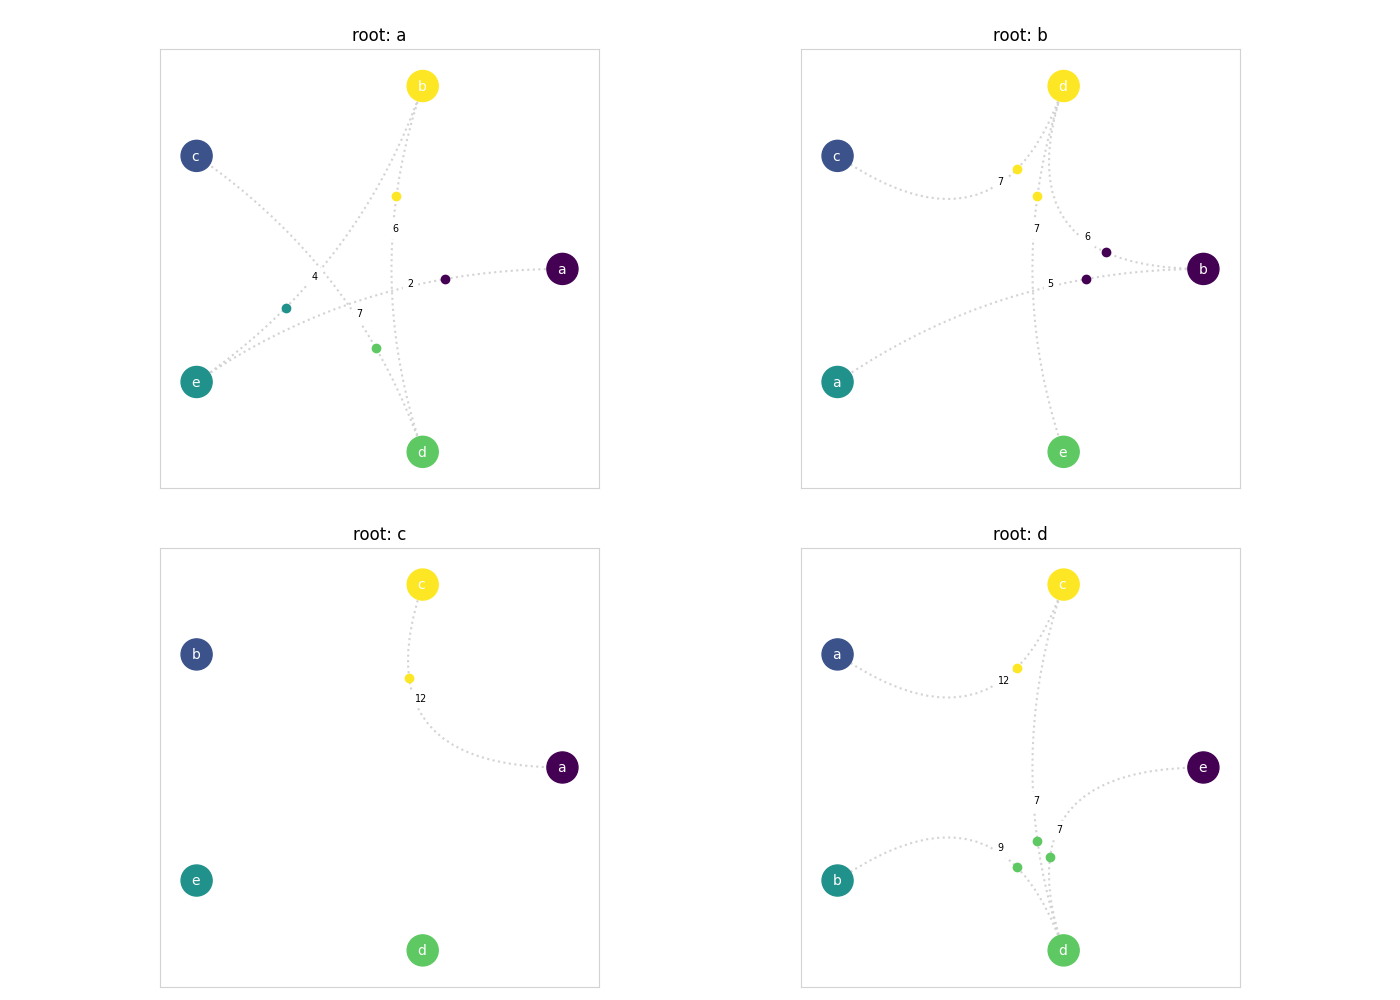
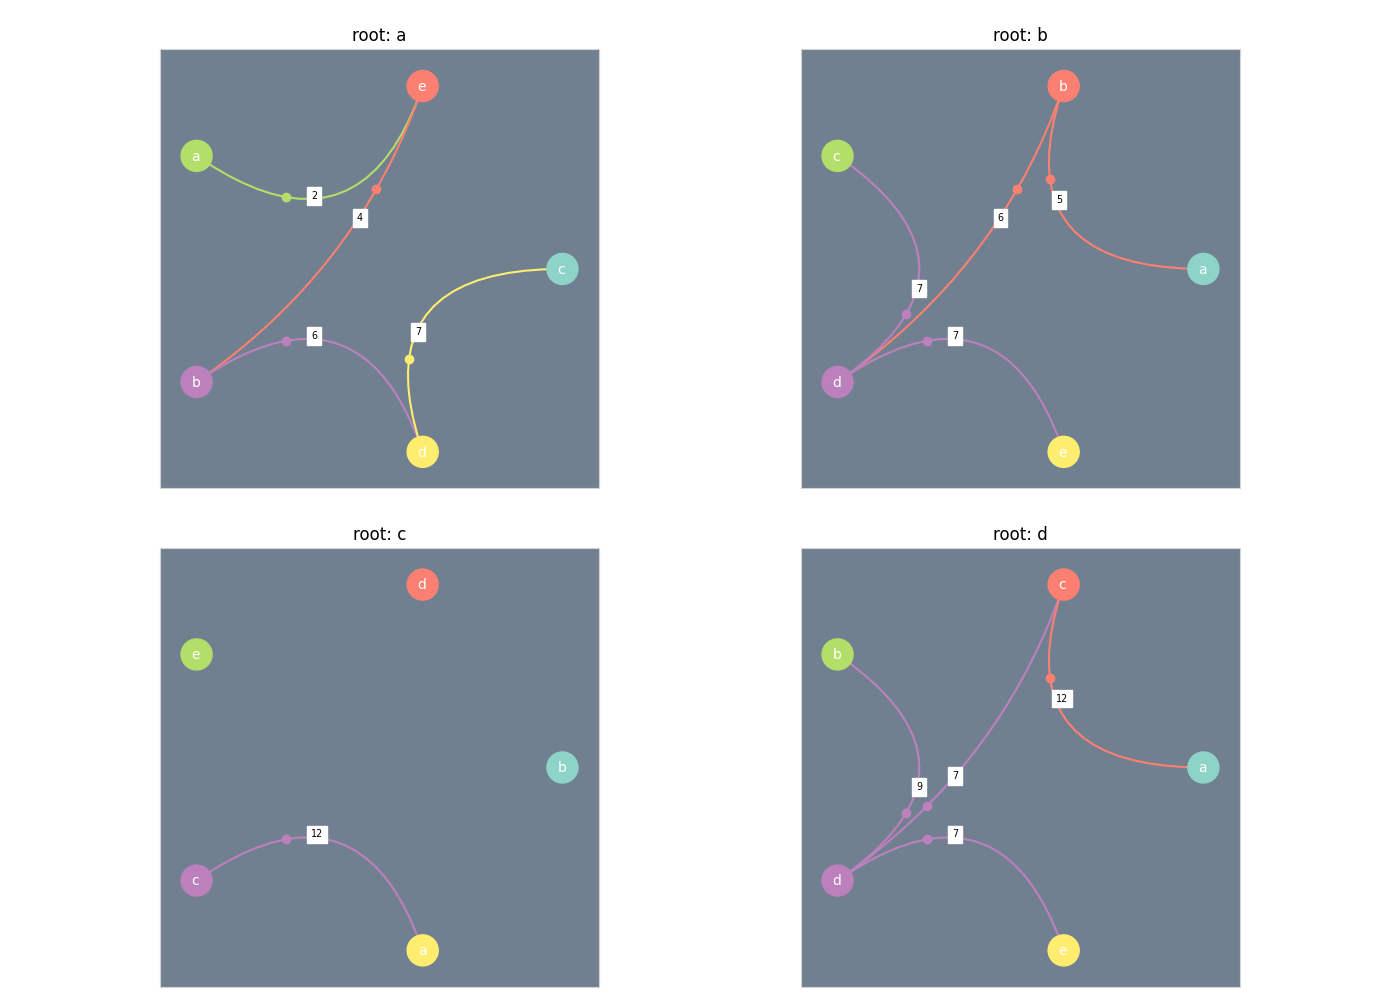
updated plots

diff --git a/OVERTIME/plots/circle.py b/OVERTIME/plots/circle.py
@@ -1,10 +1,11 @@
 
 import math
+from random import shuffle
 import numpy as np
 import matplotlib.pyplot as plt
 import matplotlib.lines as lines
 from plots.plot import Plot
-from plots.utils import vector_angle
+from plots.utils import vector_angle, bezier
 
 
 
@@ -20,7 +21,7 @@ class CircleNode():
         self.x = x
         self.y = y
         self.avg = 0
-        self.color = None
+        self.color = index
 
 
 
@@ -41,6 +42,7 @@ class Circle(Plot):
     """
         A class which represents a circle plot of a graph.
     """
+    name = 'circle'
 
     def __init__(self, graph, axes, title=None, time=None):
         super().__init__(graph, axes, title, time)
@@ -92,10 +94,10 @@ class Circle(Plot):
         pos = {}
         pos['x'] = [node.x for node in self.nodes]
         pos['y'] = [node.y for node in self.nodes]
-
-        colors = self.colors(n)
+        colors = [x for x in range(0, n)]
+        cmap = self.colormap('Set3', 1)
         ax_node = self.axes.scatter(
-            pos['x'], pos['y'], s=500, c=colors, cmap='Set2', zorder=1
+            pos['x'], pos['y'], s=500, c=colors, cmap=cmap, zorder=1
         )
         plt.draw()
 
@@ -114,46 +116,31 @@ class Circle(Plot):
             if edge.edge.directed:
                 color=self.get_node(edge.edge.node1.label).color
             else:
-                color='black'
-            bezier = self.bezier(edge.p1, edge.p2)
+                color='lightgrey'
+            bezier_edge = bezier(edge.p1, edge.p2)
             self.axes.plot(
-                bezier['x'],
-                bezier['y'],
+                bezier_edge['x'],
+                bezier_edge['y'],
                 linestyle='-',
                 color=color,
                 zorder=0
             )
             if edge.edge.directed:
                 self.axes.plot(
-                    bezier['x'][6],
-                    bezier['y'][6],
+                    bezier_edge['x'][6],
+                    bezier_edge['y'][6],
                     'o',
                     color=self.get_node(edge.edge.node1.label).color,
                     zorder=1
                 )
             if self.time is None and not self.graph.static:
                 self.axes.text(
-                    bezier['x'][8], bezier['y'][8],
+                    bezier_edge['x'][8], bezier_edge['y'][8],
                     edge.edge.start, 
                     color='black', backgroundcolor='white',
                     fontsize='x-small',
                     zorder=1
                 )
-
-
-    def bezier(self, p1, p2, p0=(0,0), nt=20):
-        bezier = {}
-        bezier['x'] = []
-        bezier['y'] = []
-        for i in range(0, nt+1):
-            t = (1/nt) * i
-            bezier['x'].append(
-                (p1['x']-2*p0[0]+p2['x'])*math.pow(t,2) + 2*t*(p0[0]-p1['x']) + p1['x']
-            )
-            bezier['y'].append(
-                (p1['y']-2*p0[0]+p2['y'])*math.pow(t,2) + 2*t*(p0[0]-p1['y']) + p1['y']
-            )
-        return bezier
 
 
     def cleanup(self):
@@ -166,5 +153,6 @@ class Circle(Plot):
         y0, y1 = ax.get_ylim()
         ax.set_aspect((x1 - x0) / (y1 - y0))
         ax.margins(0.1, 0.1)
+        ax.set_facecolor('slategrey')
         for spine in ['top', 'bottom', 'right', 'left']:
             ax.spines[spine].set_color('lightgrey')

diff --git a/OVERTIME/plots/plotter.py b/OVERTIME/plots/plotter.py
@@ -1,6 +1,8 @@
 
 import math
 import matplotlib.pyplot as plt
+import imageio
+
 
 
 class Plotter:
@@ -12,16 +14,30 @@ class Plotter:
         self.plot = None
 
 
-    def single(self, plot, graph):
+    def single(self, plot, graph, save=False):
         self.plot = plot
         figure, axes = plt.subplots(1)
         self.plot(graph, axes, graph.label)
-        plt.tight_layout(pad=0.1)
         figure.set_size_inches(7, 5)
         figure.show()
+        if save:
+            self.save(figure, plot.name, graph.label)
 
 
-    def multi(self, plot, graphs):
+    def singles(self, plot, graphs, save=False):
+        for graph in graphs:
+            self.single(plot, graph, save)
+
+
+    def gif(self, plot, graphs, save=False, file_name='graph'):
+        for graph in graphs:
+            self.single(plot, graph, True)
+        labels = [file_name + '/' + graph.label + '.png' for graph in graphs]
+        images = [imageio.imread(f) for f in labels]
+        imageio.mimsave(file_name + '/' + file_name + '.gif', images, duration=2)
+
+
+    def multi(self, plot, graphs, save=False, file_name='multi'):
         self.plot = plot
         ncols = math.ceil(math.sqrt(len(graphs)))
         nrows = math.ceil(len(graphs)/ncols)
@@ -49,4 +65,11 @@ class Plotter:
         for x in range(ncols-extra_axes, ncols):
             figure.delaxes(axes[nrows-1][x])
         figure.set_size_inches(14, 10)
+        plt.tight_layout(pad=0.1)
         figure.show()
+        if save:
+            self.save(figure, plot.name, file_name)
+
+
+    def save(self, figure, plot_name, label):
+        figure.savefig(label + '_' + plot_name + '.png', format='png')

diff --git a/OVERTIME/plots/slice.py b/OVERTIME/plots/slice.py
@@ -1,8 +1,5 @@
 
 import matplotlib.pyplot as plt
-from matplotlib import cm
-from matplotlib.colors import ListedColormap
-
 from plots.plot import Plot
 
 
@@ -26,6 +23,7 @@ class Slice(Plot):
     """
         A class which represents a slice plot of a graph.
     """
+    name = 'slice'
 
     def __init__(self, graph, axes, title=None):
         super().__init__(graph, axes, title)
@@ -53,11 +51,6 @@ class Slice(Plot):
             pos['x'], pos['y'], s=50, c=colors, cmap=cmap, zorder=1
         )
         plt.draw()
-
-
-    def colormap(self, name, n):
-        cmap = cm.get_cmap(name)
-        return ListedColormap(cmap.colors*n)
 
 
     def cleanup(self):

diff --git a/OVERTIME/csv_example.py b/OVERTIME/csv_example.py
@@ -1,0 +1,27 @@
+
+from inputs.classes import CSVInput
+from components.digraphs import TemporalDiGraph
+from plots.plotter import Plotter
+from plots.circle import Circle
+from plots.slice import Slice
+
+
+graph = TemporalDiGraph('TestNetwork1', data=CSVInput('./network.csv'))
+graph.details()
+
+graph.add_node('x')
+graph.add_edge('f', 'a', 3, 7)
+
+plotter = Plotter()
+plotter.single(Circle, graph)
+plotter.single(Slice, graph, save=True)
+
+
+snapshots = []
+for t in graph.edges.timespan():
+    snapshots.append(graph.get_snapshot(t))
+
+plotter.multi(Circle, snapshots, save=True)
+
+
+input("Press enter key to exit...")

diff --git a/OVERTIME/plots/plot.py b/OVERTIME/plots/plot.py
@@ -1,6 +1,7 @@
 
-from random import shuffle
 import matplotlib.pyplot as plt
+from matplotlib import cm
+from matplotlib.colors import ListedColormap
 
 
 
@@ -24,12 +25,6 @@ class Plot:
     def create(self):
         self.create_nodes()
         self.create_edges()
-
-    
-    def colors(self, n):
-        c = [(1/n * x) for x in range(0, n)]
-        shuffle(c)
-        return c
 
 
     def draw(self):
@@ -69,3 +64,8 @@ class Plot:
 
     def cleanup(self):
         pass
+
+
+    def colormap(self, name, n):
+        cmap = cm.get_cmap(name)
+        return ListedColormap(cmap.colors*n)

diff --git a/OVERTIME/plots/utils.py b/OVERTIME/plots/utils.py
@@ -11,3 +11,18 @@ def vector_angle(x, y):
     if theta < 0:
         theta = theta + 2*math.pi
     return theta
+
+
+def bezier(p1, p2, p0=(0,0), nt=20):
+    bezier = {}
+    bezier['x'] = []
+    bezier['y'] = []
+    for i in range(0, nt+1):
+        t = (1/nt) * i
+        bezier['x'].append(
+            (p1['x']-2*p0[0]+p2['x'])*math.pow(t,2) + 2*t*(p0[0]-p1['x']) + p1['x']
+        )
+        bezier['y'].append(
+            (p1['y']-2*p0[0]+p2['y'])*math.pow(t,2) + 2*t*(p0[0]-p1['y']) + p1['y']
+        )
+    return bezier

diff --git a/OVERTIME/components/digraphs.py b/OVERTIME/components/digraphs.py
@@ -32,3 +32,13 @@ class TemporalDiGraph(TemporalGraph):
 
         if data is not None:
             self.build(data)
+
+
+    def get_snapshot(self, time):
+        label = self.label + ' [time: ' + str(time) + ']'
+        graph = DiGraph(label)
+        for edge in self.edges.get_active_edges(time).set:
+            graph.add_edge(edge.node1.label, edge.node2.label)
+        for node in self.nodes.set:
+            graph.add_node(node.label)
+        return graph

diff --git a/OVERTIME/example.py b/OVERTIME/example.py
@@ -6,6 +6,7 @@ from plots.plotter import Plotter
 from plots.circle import Circle
 
 
+
 graph = TemporalGraph('TestNetwork1', data=CSVInput('./network.csv'))
 
 # digraph = TemporalDiGraph('TestNetwork2', data=CSVInput('./network.csv'))

diff --git a/OVERTIME/slice_plot_example.py b/OVERTIME/slice_plot_example.py
@@ -11,8 +11,6 @@ graph1.details()
 myplotter = Plotter()
 myplotter.single(Slice, graph1)
 
-
-
 graph = TemporalGraph('TestNetwork', data=CSVInput('./network.csv'))
 graph.add_node('x')
 graph.add_edge('f', 'a', 3, 7)
